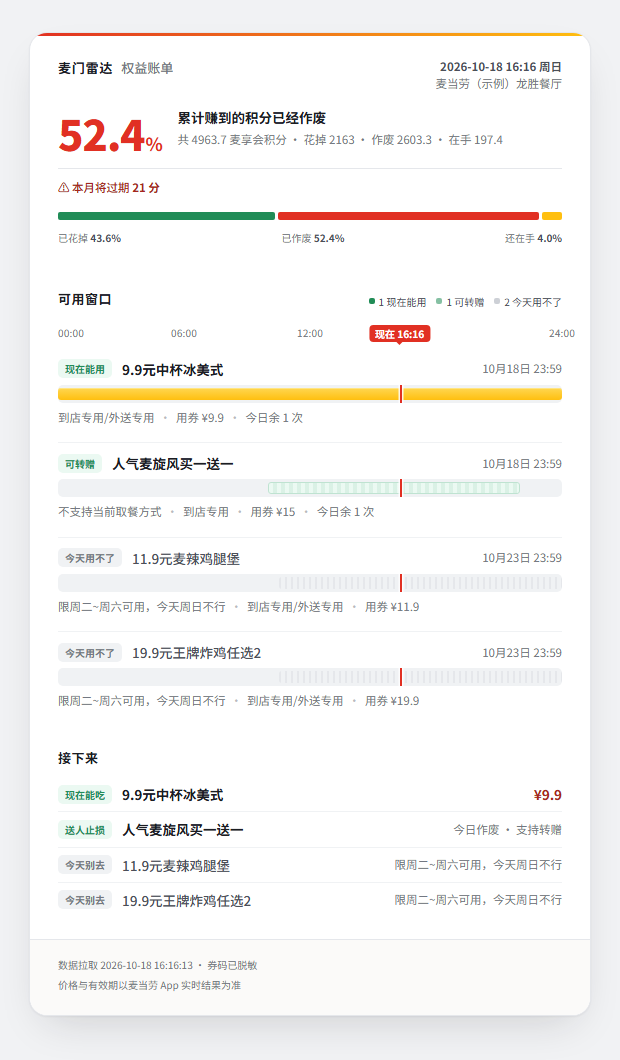
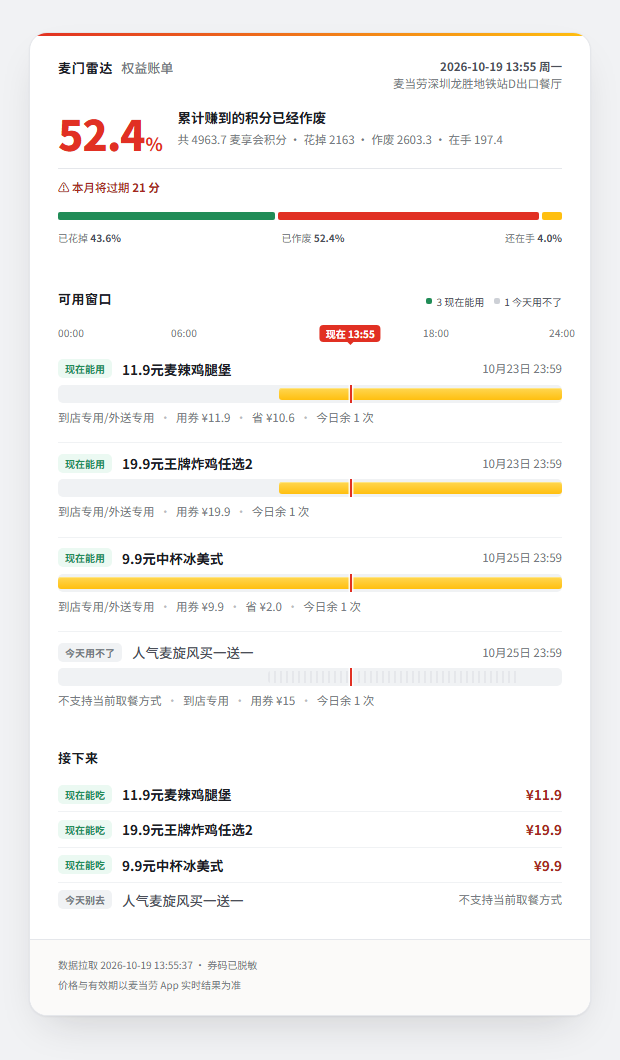
A2 落地：券价叠加进账单——demo/wake 增读门店券文件，buildModel 按 couponId 认亲算真实增益（现价−券价），行内显示『省 ¥X』，marginal 附提示，无数据静默降级；真数据验收通过（冰美式省2.0/麦辣省10.6），README 与截图同步

diff --git a/README.md b/README.md
@@ -38,7 +38,7 @@
                                            ▾
    ───────────────────────────────────────────────────────────
    🟢 9.9元中杯冰美式      ██████████████████████▓▓▓▓▓▓ 剩 7.7 小时
-      ↳ 到店专用/外送专用 · 用券 ¥9.9 · 今日余 1 次
+      ↳ 到店专用/外送专用 · 用券 ¥9.9 · 省 ¥2.0 · 今日余 1 次
    🟡 人气麦旋风买一送一   ╌╌╌╌╌╌╌╌╌╌╌╌╌╌╌╌╌╌╌╌╌╌╌╌╌╌╌╌╌╌╌╌╌ 剩 7.7 小时
       ↳ 不支持当前取餐方式 · 用券 ¥15 · 今日余 1 次
    🔴 11.9元麦辣鸡腿堡     ░░░░░░░░░░░░░░░░░░░░░░░░░░░░░░░░ 剩 6 天
